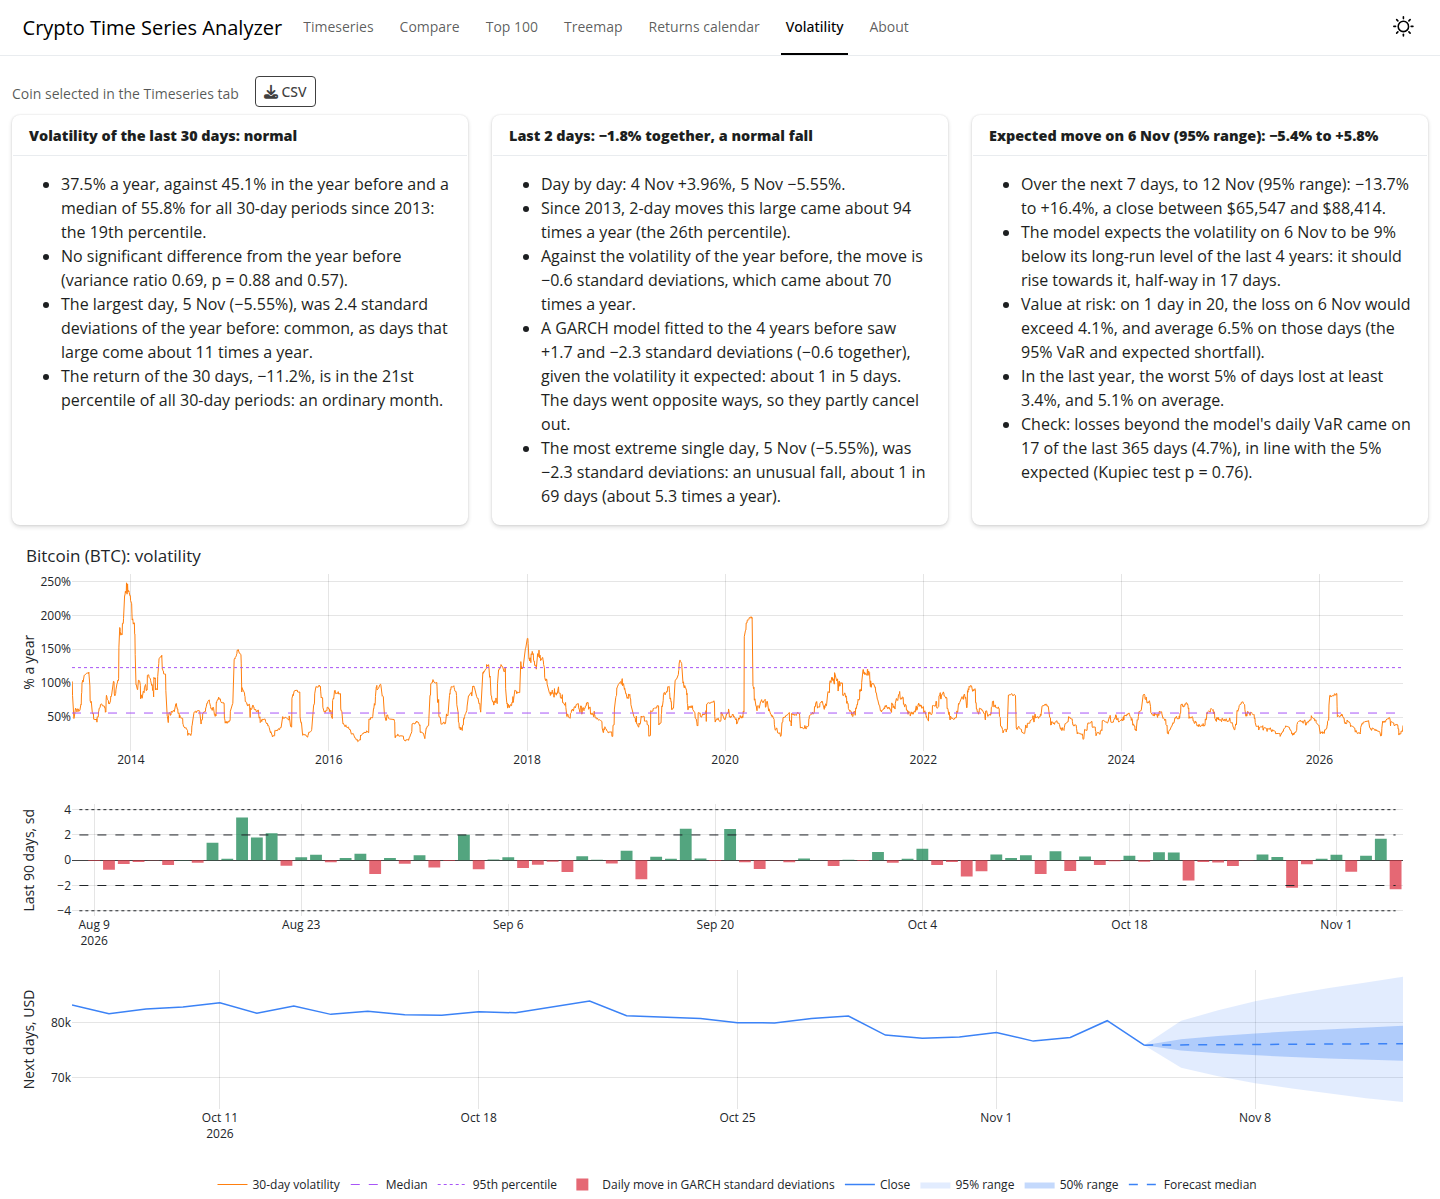
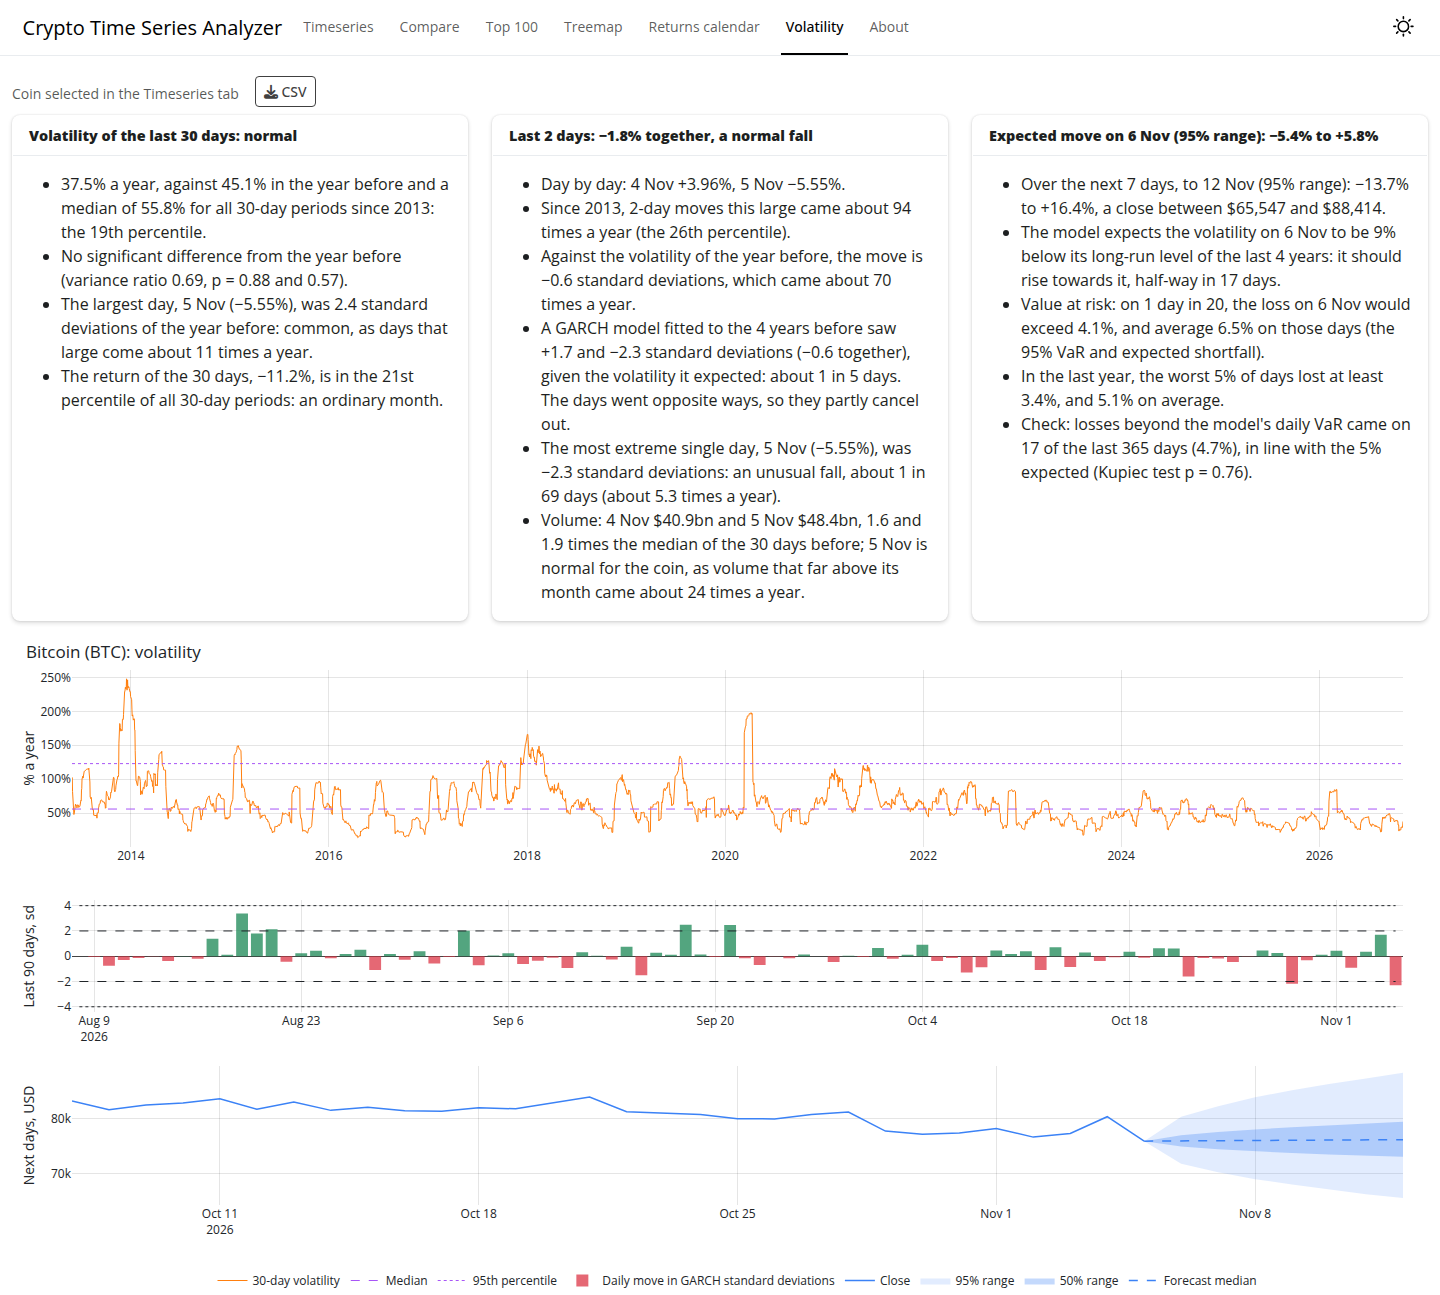
ratio

diff --git a/inst/app/www/styles.css b/inst/app/www/styles.css
@@ -47,7 +47,7 @@
 
 /* the Volatility tab is a column as tall as the window below the navigation bar: the controls
    and the cards take the height of their text, and the chart grows to fill the rest, like the
-   charts of the other tabs, but no less than 650px for its three panels, where the page scrolls.
+   charts of the other tabs, but no less than 600px for its three panels, where the page scrolls.
    The chart may shrink once the cards appear (min-height: 0), and Shiny then redraws it */
 .volatility-page {
   display: flex;
@@ -59,7 +59,7 @@
   flex: 1 1 0;
   display: flex;
   flex-direction: column;
-  min-height: 650px;
+  min-height: 600px;
 }
 
 #volatility-plot {

diff --git a/inst/app/about.md b/inst/app/about.md
@@ -146,6 +146,14 @@ The card compares it with the year before the 30 days, and with every 30-day per
 
 so a large move raises the volatility the model expects for the next days, which then fades at the rate β. The daily moves e / σ follow a Student-t distribution, whose fat tails allow more extreme days than the normal distribution. The model is fitted by maximum likelihood to the 4 years before the two days, so it judges them against the volatility it expected without having seen them. The probability of a move at least as large, p, gives *about 1 in 1/p days*. The verdict follows it: *normal* for about once a month or more often (under 30 days), *unusual* for less than monthly but more than once a year (under 365), *rare* for once in 1 to 10 years, and *very rare* beyond. The card also judges the most extreme of the two days alone, as a large move can hide in a 2-day total when the other day went the opposite way. A coin with less than 500 days before the two days has no model, and the verdict comes from the second measure.
 
+**Volume.** The last point of the card compares each day's volume, the US dollars traded, with the median volume of the 30 days before it:
+
+```
+volume ratio(t) = volume(t) / median(volume(t−30), …, volume(t−1))
+```
+
+2 is twice the usual volume of the time and 0.5 half of it. The median keeps a single busy day from raising the bar, and the ratio follows the coin's volume as it grows over the years. How unusual a ratio is comes from the coin's history: the share of days whose own ratio was at least as high, or as low for a quiet day, with the same words and thresholds as for the moves. A large move on unusually high volume had many traders behind it; on normal or low volume it happened in a thinner market, where smaller trades move the price more. Days without volume, which CoinMarketCap has for the earliest days of some coins, are left out.
+
 The history measures say how large a move is; the standard deviations and the model say how large it is given the volatility of the time, as a 5% day is a shock in a calm market and routine in a rough one. The probabilities hold if the model holds: in crashes the tails are often fatter still, so *1 in N days* tends to overstate how rare a move is.
 
 **The next days.** The third card looks ahead with the same model, its variance brought up to the last day. The variance of the next day follows from the last day, and later days fall back towards the model's long-run level at the rate α + β a day:
@@ -167,7 +175,7 @@ VaR = −(5th percentile of the daily returns)        ES = −(average of the re
 
 Losses are price falls in percent. The 95% range and the 95% VaR differ: the range leaves out 2.5% on each side, the VaR 5% on the downside alone, so the VaR is the smaller loss. The last point checks the model's VaR against the last 365 days with the Kupiec test: a well-calibrated VaR is exceeded on about 5% of the days, some 18 a year, and a p-value below 0.05 means it was exceeded more often, so the model understates the risk, or less often, so it overstates it. The forecast assumes that the model holds. It cannot foresee news: its ranges say how far the price usually moves at this level of volatility, not where it will go.
 
-**The chart.** At the top, the 30-day volatility over the whole history, with its median and 95th percentile. In the middle, each of the last 90 days in the standard deviations the model expected, with dashed lines at ±2 and dotted ones at ±4. At the bottom, the last 30 closes and the forecast of the next 7 days: the median close, the middle half of the outcomes (50%) and the 95% range; hover over the median for a day's ranges. The CSV button downloads the data day by day: the daily return, the 30-day volatility, the standard deviation and value at risk the model expected, and the forecast of the days ahead.
+**The chart.** At the top, the 30-day volatility over the whole history, with its median and 95th percentile. In the middle, each of the last 90 days in the standard deviations the model expected, with dashed lines at ±2 and dotted ones at ±4. At the bottom, the last 30 closes and the forecast of the next 7 days: the median close, the middle half of the outcomes (50%) and the 95% range; hover over the median for a day's ranges. The CSV button downloads the data day by day: the daily return, the volume and its ratio, the 30-day volatility, the standard deviation and value at risk the model expected, and the forecast of the days ahead.
 
 <h3 id="about-data">Data and updates</h3>
 

diff --git a/NEWS.md b/NEWS.md
@@ -11,7 +11,7 @@
   * **Compare** plots up to 10 coins from a chosen start date, each starting at 100, with a linear or log scale.
   * **Treemap** shows the top 100 coins sized by market cap and colored by their 24h change.
   * **Returns calendar** shows the monthly returns, by year, of the coin selected in the Timeseries tab.
-  * **Volatility** says in words whether the volatility of the last 30 days and the move of the last 2 days of the coin selected in the Timeseries tab are normal: against the year before, against the coin's whole history, and against a GARCH(1,1) model with Student-t errors. A third card forecasts the next 7 days with the same model: the 95% range of the price and the value at risk and expected shortfall of the next day, beside those of the last year, with a Kupiec test of how well the model's value at risk held. A chart shows the 30-day volatility over the whole history, the last 90 days in the standard deviations the model expected, and the forecast of the price. `volatility_analysis()`, `volatility_text()` and `plot_volatility()` do the same from R; the model is fitted in base R, with no new dependency.
+  * **Volatility** says in words whether the volatility of the last 30 days and the move of the last 2 days of the coin selected in the Timeseries tab are normal: against the year before, against the coin's whole history, and against a GARCH(1,1) model with Student-t errors. It also says whether the volume of the 2 days is unusual for the coin, against the median of the 30 days before each. A third card forecasts the next 7 days with the same model: the 95% range of the price and the value at risk and expected shortfall of the next day, beside those of the last year, with a Kupiec test of how well the model's value at risk held. A chart shows the 30-day volatility over the whole history, the last 90 days in the standard deviations the model expected, and the forecast of the price. `volatility_analysis()`, `volatility_text()` and `plot_volatility()` do the same from R; the model is fitted in base R, with no new dependency.
 * An **About** tab explains what every tab shows and how its numbers are calculated, with the formulas: the candles, moving averages and drawdown of the Timeseries tab, the index of the Compare tab, the columns of the Top 100 table and the colors of the tables and charts. It also explains linear and log scales, with an example chart, and when a log scale helps.
 * The Timeseries chart shows the 50- and 200-day moving averages, and a drawdown chart of how far the price is below its all-time high. `moving_average()` and `drawdown()` compute them, and `plot_timeseries()` gained the `averages` and `show_drawdown` arguments.
 * The app has a name, a Bootstrap 5 theme, a favicon and a light/dark mode toggle. The charts and the Top 100 table follow the mode: price changes are shaded in a red and a green that fade into the page, so values near zero no longer show as white cells in dark mode.

diff --git a/README.md b/README.md
@@ -139,7 +139,7 @@ Coins are picked by their label, such as `"Bitcoin (BTC)"`, and `get_coins()$nam
 - Monthly returns by year for the coin selected in the Timeseries tab
 
 ### Volatility Tab
-- For the coin selected in the Timeseries tab, two cards say in words whether the volatility of the last 30 days and the move of the last 2 days are normal: against the year before, against the coin's whole history, and against a GARCH(1,1) model with Student-t errors fitted to the 4 years before
+- For the coin selected in the Timeseries tab, two cards say in words whether the volatility of the last 30 days and the move of the last 2 days are normal: against the year before, against the coin's whole history, and against a GARCH(1,1) model with Student-t errors fitted to the 4 years before, and whether their volume is unusual for the coin
 - A third card forecasts the next 7 days with the same model: the 95% range of the price, the value at risk and expected shortfall of the next day and of the last year, and a Kupiec test of how well the model's value at risk held
 - A chart of the 30-day volatility over the whole history, of the last 90 days in the standard deviations the model expected, and of the forecast of the price
 
